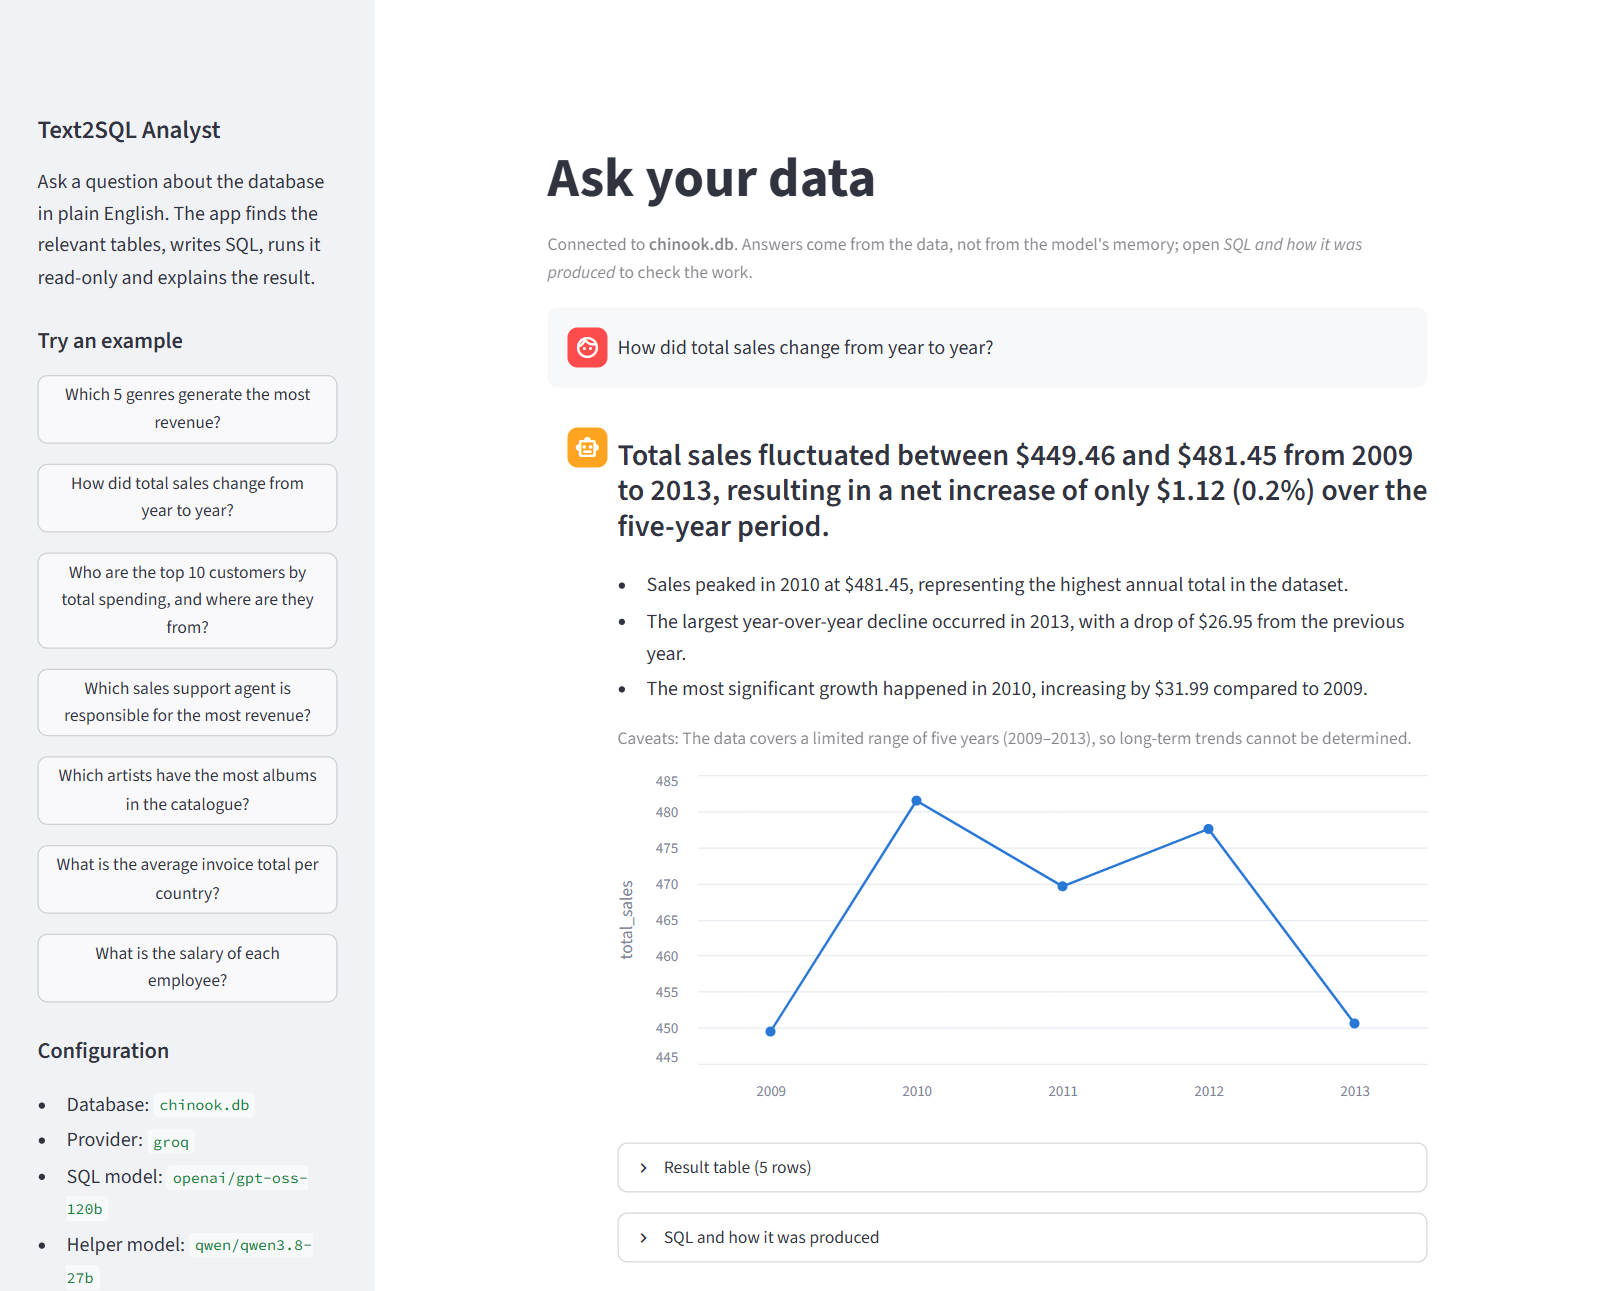
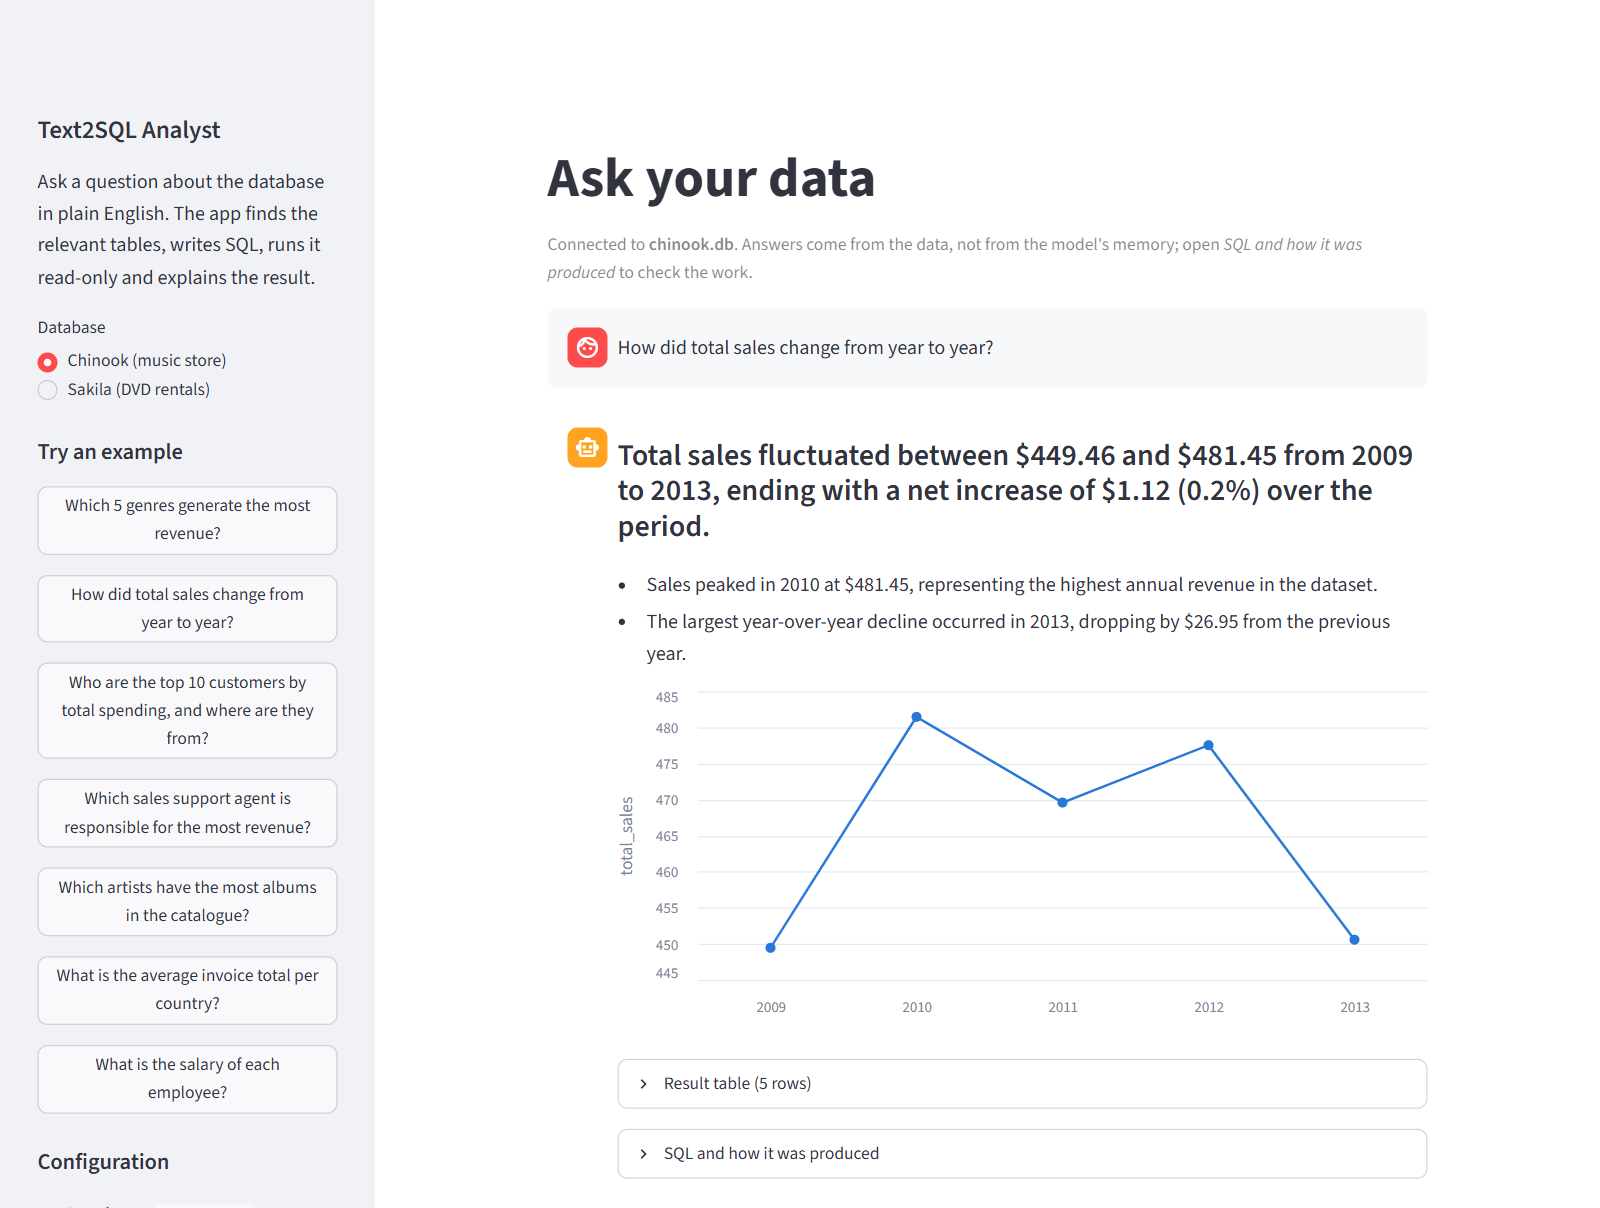
docs: retake the screenshots with the database switcher and show the SQL details view

diff --git a/README.md b/README.md
@@ -28,17 +28,12 @@ Groq, or locally with Ollama), a local embedding model, ChromaDB and SQLite.
 
 **Question:** *Which 5 genres generate the most revenue?*
 
-> **Rock is the top revenue-generating genre with $826.65, followed by Latin ($382.14)
-> and Metal ($261.36).**
+> **Rock generates the highest revenue at $826.65, followed by Latin ($382.14), Metal
+> ($261.36), Alternative & Punk ($241.56), and TV Shows ($93.53).**
 >
-> - Rock accounts for 45.8% of the total revenue across these top five genres.
-> - There is a significant revenue gap between the top genre (Rock) and the second
->   (Latin), with Rock generating more than double the revenue of Latin.
-> - TV Shows has the lowest revenue among the top five, at $93.53, which is less than
->   12% of Rock's revenue.
->
-> *Caveats: This analysis only covers the top 5 genres; revenue from other genres is not
-> included in the total of $1,805.24.*
+> - Rock accounts for 45.8% of the total revenue generated by these top five genres.
+> - The revenue gap between the top genre (Rock) and the second (Latin) is more than
+>   double.
 
 | genre | total_revenue |
 |---|---|
@@ -52,19 +47,25 @@ Groq, or locally with Ollama), a local embedding model, ChromaDB and SQLite.
 <summary>Generated SQL (hidden by default, one click away in the app)</summary>
 
 ```sql
+WITH genre_revenue AS (
+    SELECT
+        g.Name AS genre,
+        SUM(il.UnitPrice * il.Quantity) AS revenue
+    FROM InvoiceLine il
+    JOIN Track t      ON il.TrackId = t.TrackId
+    JOIN Genre g      ON t.GenreId = g.GenreId
+    GROUP BY g.GenreId, g.Name
+)
 SELECT
-    g.Name AS genre,
-    ROUND(SUM(il.UnitPrice * il.Quantity), 2) AS total_revenue
-FROM InvoiceLine il
-JOIN Track t      ON il.TrackId = t.TrackId
-JOIN Genre g      ON t.GenreId = g.GenreId
-GROUP BY g.GenreId, g.Name
+    genre,
+    ROUND(revenue, 2) AS total_revenue
+FROM genre_revenue
 ORDER BY total_revenue DESC
 LIMIT 5
 ```
 
 Tables found by vector search: Genre, Track, InvoiceLine, Artist, Invoice, Album.
-Tables kept by the LLM: Genre, Track, InvoiceLine. Total time: 1.8 s.
+Tables kept by the LLM: Genre, Track, InvoiceLine. Total time: 2.3 s.
 </details>
 
 Trends get a line chart, and the answer quotes the exact overall change, which the app
@@ -185,9 +186,10 @@ flowchart TB
    message goes back to the model to fix its own query, up to two times.
 7. **Answer and analysis** ([`analysis/answer.py`](src/text2sql/analysis/answer.py)).
    The model gets the question, the SQL, the rows, and **summary statistics computed by
-   the application** (totals, averages, extremes, and the share of the top item). LLMs
-   are weak at arithmetic over many rows, so the model is asked to explain these exact
-   numbers rather than compute them. It returns a direct answer, up to three insights
+   the application** (totals, averages, extremes, the share of the top item and of the
+   top three, the gap between highest and lowest, and the first-to-last change of a
+   time series). LLMs are weak at arithmetic over many rows, so the model is asked to
+   quote these exact numbers rather than compute them. It returns a direct answer, up to three insights
    and any caveats.
 8. **Chart** ([`analysis/charts.py`](src/text2sql/analysis/charts.py)). A conservative
    rule picks the visual. A single number becomes a metric tile. A time column plus a
@@ -287,6 +289,8 @@ example. Follow-up questions work: ask "How many invoices were issued in 2010?",
 5. **SQL and how it was produced** (collapsed): the query, any self-correction steps,
    the candidate tables with similarity scores, the tables the LLM selected, bridge
    tables added for joins, and timings per stage
+
+![SQL and how it was produced](docs/images/sql-details.png)
 
 ### CLI
 
